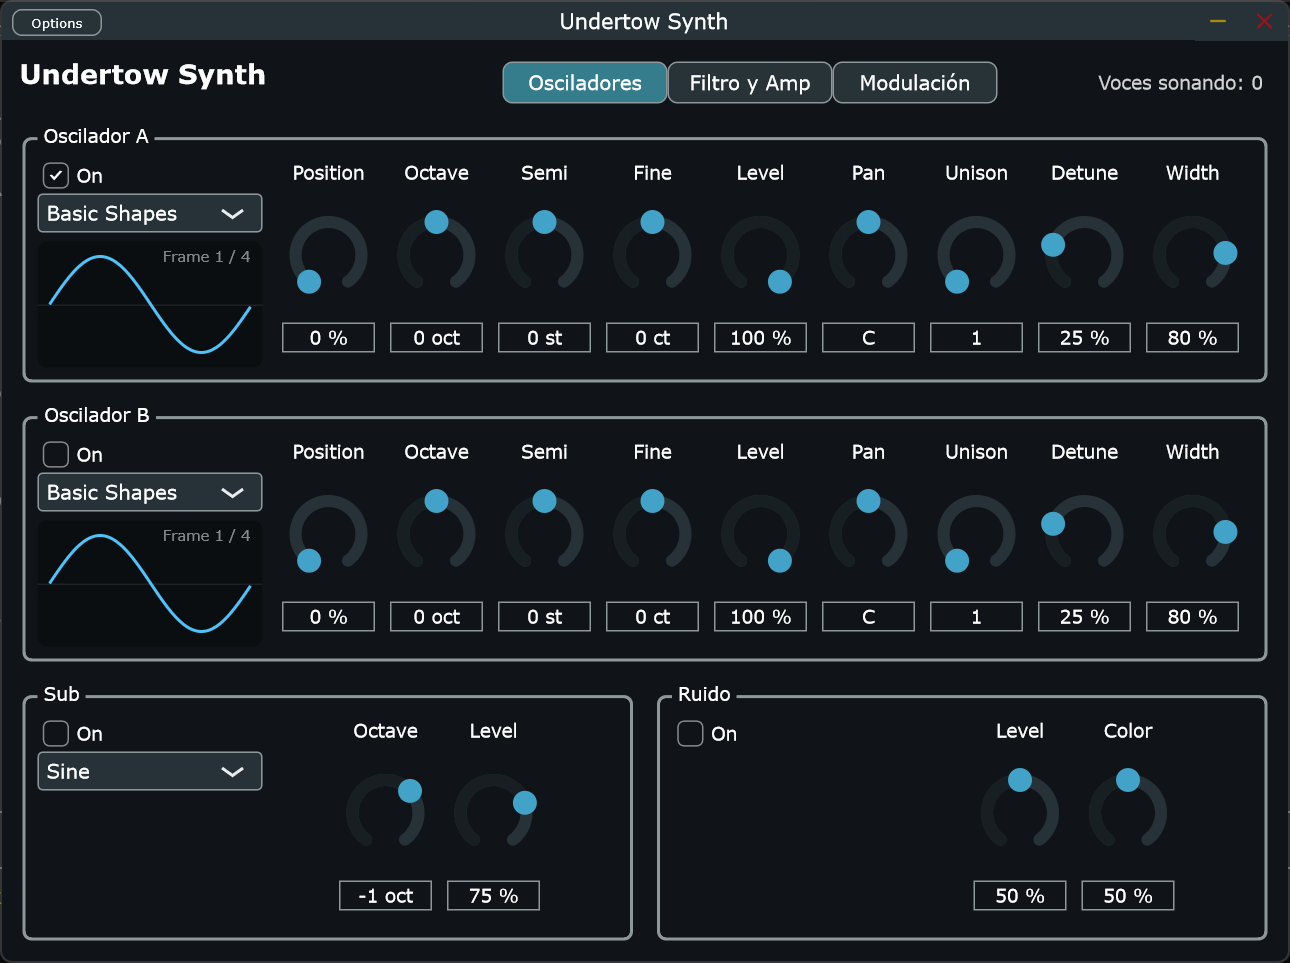
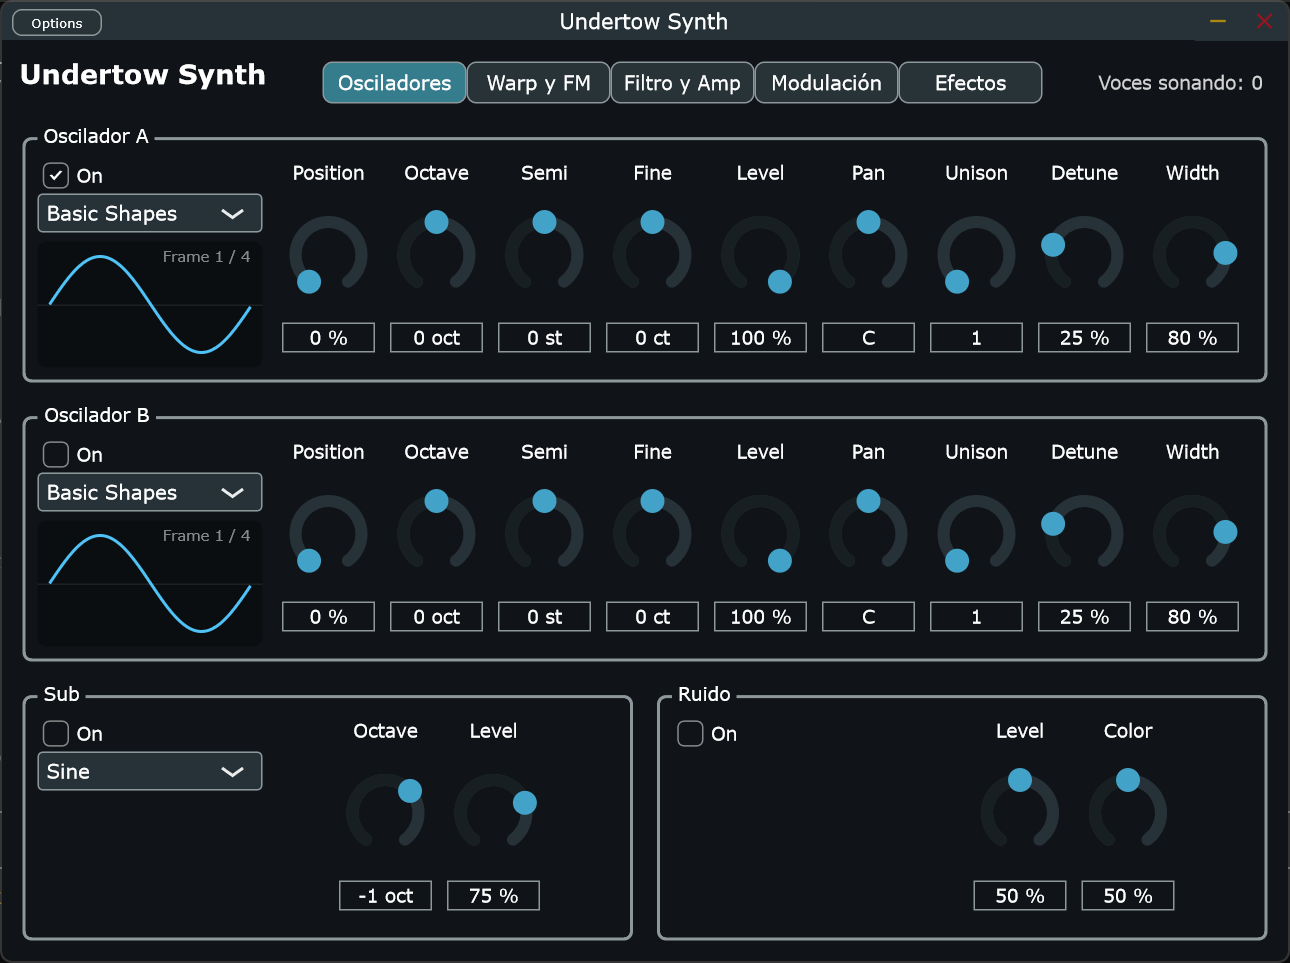
README actualizado hasta la Fase 8: flujo de señal, capturas nuevas y opciones de los tests

Changed region(s): [[0.2481, 0.0623, 0.8062, 0.1246]]

diff --git a/README.md b/README.md
@@ -6,8 +6,9 @@ llegar al nivel de sintes como Serum o Vital.
 
 ![Interfaz de Undertow Synth](docs/screenshot.png)
 
-> **Estado:** en desarrollo (fases 1–8 de 11 completadas). Ya suena y es
-> usable en un DAW, pero todavía no tiene presets. Ver la [hoja de ruta](#hoja-de-ruta).
+> **Estado:** en desarrollo (fases 1–8 de 11 completadas). Ya suena y es usable en un DAW, con efectos incluidos, pero
+> todavía no tiene presets y la interfaz es funcional (la definitiva llega en la fase 9). Ver la
+> [hoja de ruta](#hoja-de-ruta).
 
 ## Qué tiene hoy
 
@@ -29,8 +30,26 @@ llegar al nivel de sintes como Serum o Vital.
   delay estéreo o ping-pong (libre o sincronizado al tempo) y reverb algorítmica (red de 8 retardos realimentados).
 - **Polifonía de 1 a 16 voces** con robo de voces sin clics, pedal de sustain (CC64) y CC120/123.
 - **Envolvente ADSR** exponencial y sensibilidad a la velocity.
-- Correcto a 44.1, 48, 88.2 y 96 kHz y con cualquier tamaño de buffer. Validado con
+- **MIDI y host:** rueda de modulación (CC1) y aftertouch como fuentes de modulación; tempo y posición de la canción
+  del DAW para los LFOs y el delay sincronizados. Informa al DAW de la cola (release, reverb y delay) para que no se
+  corte al exportar.
+- **Interfaz en 5 pestañas** (Osciladores, Warp y FM, Filtro y Amp, Modulación, Efectos) con visores de la forma de
+  onda, del warp aplicado, de la curva del filtro y de los LFOs.
+- Correcto a 44.1, 48, 88.2 y 96 kHz y con cualquier tamaño de buffer, en estéreo o mono. Validado con
   [pluginval](https://github.com/Tracktion/pluginval) en strictness 10.
+
+### Cómo fluye la señal
+
+```
+ por cada nota (hasta 16 voces)                                           una vez, sobre la suma
+┌─────────────────────────────────────────────────────────────────┐   ┌──────────────────────────────┐
+│ Osc A ─┐  (unison, warp, FM/RM)                                 │   │                              │
+│ Osc B ─┼─► mezcla ─► filtro ─► amplitud (Env 1) ────────────────┼──►│ distorsión ─► chorus ─►      │──► Master
+│ Sub   ─┤                                                        │   │ delay ─► reverb              │
+│ Ruido ─┘   ▲ Env 2, Env 3, LFO 1, LFO 2, velocity, nota,        │   └──────────────────────────────┘
+│            │ rueda de modulación y aftertouch vía la matriz     │
+└─────────────────────────────────────────────────────────────────┘
+```
 
 ## Requisitos
 
@@ -66,7 +85,14 @@ Si `cmake` no se reconoce, usa la ruta completa (`"C:\Program Files\CMake\bin\cm
 ctest --test-dir build -C Release --output-on-failure
 ```
 
-Los tests (`tests/DspTests.cpp`) miden afinación, aliasing, respuesta del filtro, ausencia de clics y coste de CPU.
+Los tests (`tests/DspTests.cpp`) miden afinación, aliasing, respuesta del filtro, ausencia de clics, tiempos de los
+ecos y de la reverb, y coste de CPU, a las 4 frecuencias de muestreo. El ejecutable acepta opciones para iterar más
+rápido:
+
+```bash
+build/Release/UndertowTests.exe --fase8     # solo los tests de efectos (--fase7: warp y FM)
+build/Release/UndertowTests.exe --verbose   # detalle de cada medición
+```
 
 ## Usarlo
 
@@ -163,7 +189,10 @@ Resonance **25 %**, Drive **30 %**, Key Track **50 %** · Attack **2 ms**, Decay
 Release **60 ms**. Toca corcheas entre C3 y C4 (notación de FL).
 
 Para darle el "squelch" de un acid: Resonance **75 %** y, en la pestaña Modulación, Env 2 (Attack 1 ms, Decay 180 ms,
-Sustain 0 %) con la ruta **Env 2 → Filter Cutoff +40 %**.
+Sustain 0 %) con la ruta **Env 2 → Filter Cutoff +40 %**. Para terminarlo, en la pestaña Efectos: Distorsión **Tube**,
+Drive **40 %**, Tone **60 %**, y un Delay con Sync en **1/8 D**, Feedback **30 %**, Mix **15 %**.
+
+![Pestaña Efectos](docs/screenshot-efectos.png)
 
 Hay más recetas, ejercicios de escucha y vocabulario en **[APRENDIZAJE.md](APRENDIZAJE.md)**, el cuaderno de
 diseño sonoro del proyecto. Explica qué se oye con cada control y por qué.
@@ -179,6 +208,7 @@ Source/
   synth/              voces, gestión de polifonía, matriz de modulación, banco de wavetables y cadena de efectos
   gui/                visores propios (forma de onda, warp, curva del filtro y LFO)
 tests/                tests de DSP (ejecutable independiente, sin JUCE)
+APRENDIZAJE.md        cuaderno de diseño sonoro: conceptos, recetas, ejercicios y vocabulario de cada fase
 ```
 
 El DSP no depende de JUCE: se puede probar aislado. Dentro del hilo de audio no se reserva memoria ni se usan locks.
